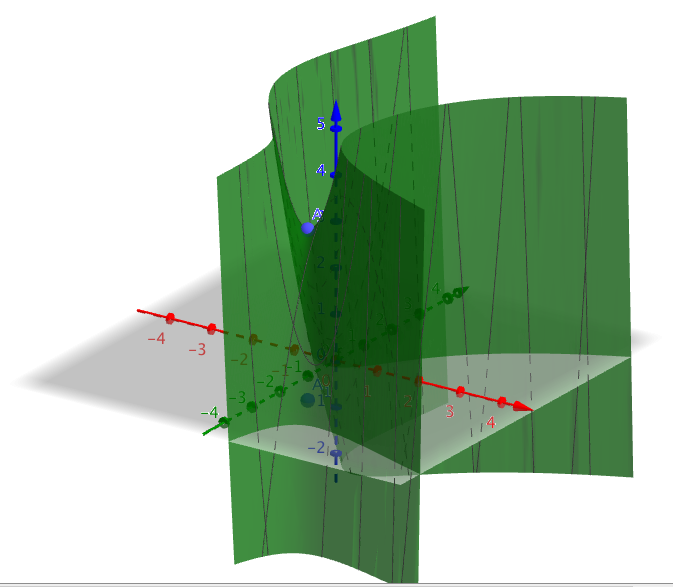
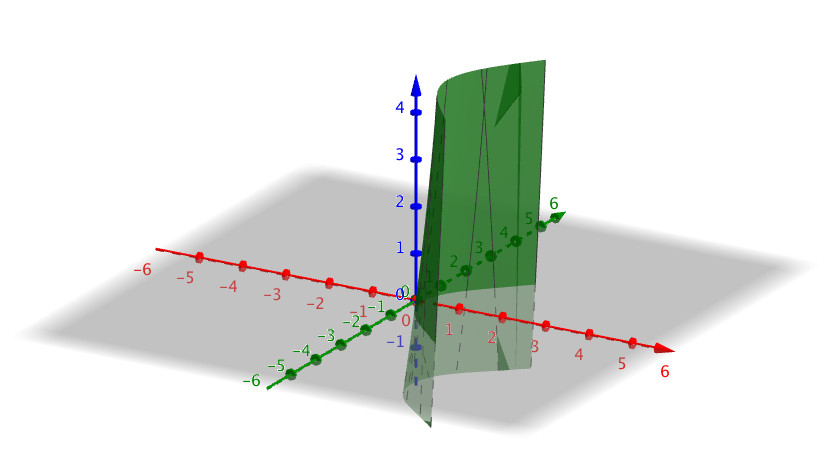
Jobb på MaA 10

diff --git a/MaA10_2021/10_partiell.html b/MaA10_2021/10_partiell.html
@@ -112,28 +112,27 @@
         <ol>
           <!--<li>Uppgift för Quizlet</li>-->
 
-          <li>Låt \( f(x,y) = 3x^3-xy^2-3y+7x-1 \).
+          <li>Låt \( f(x,y) = 2x^3-xy^2-3y^2+7x-1 \).
             <ol>
               <li>Bestäm de partiella derivatafunktionerna till funktionen. <p><button class="btn btn-success btn-sm" type="button" data-toggle="collapse" data-target="#1a" aria-expanded="false" aria-controls="collapseExample">Lösning</button></p>
               <div class="collapse" id="1a">
-              <div class="card card-body answer"><p>Vi får \( \dfrac{\partial f}{\partial x} = -y^2 +6x \) och \( \dfrac{\partial f}{\partial y} = -2xy -3 \).</p>
+              <div class="card card-body answer"><p>Vi får \( \dfrac{\partial f}{\partial x} = 6x^2-y^2+7 \) och \( \dfrac{\partial f}{\partial y} = -2xy -6y \).</p>
               </div></div> </li>
               <li>Bestäm de kritiska punkterna för funktionen. <p><button class="btn btn-success btn-sm" type="button" data-toggle="collapse" data-target="#1b" aria-expanded="false" aria-controls="collapseExample">Lösning</button></p>
               <div class="collapse" id="1b">
               <div class="card card-body answer"><p>Vi skall lösa ekvationssystemet</p>
                 <p> \(
                 \left\{ \begin{array}{l}
-                -y^2+6x = 0 \\
-                -2xy-3 = 0 \\
+                6x^2-y^2+7 = 0 \\
+                -2xy -6y = 0 \\
                 \end{array} \right. \) </p>
-                <p>Vi får lösningarna  \(  x = \dfrac{\sqrt[3]{9^2}}{6}, y = -\sqrt[3]{9} \) .</p>
+                <p>Vi får lösningarna  \(  x = -3, y = \sqrt{61} \) och \(  x = -3, y = -\sqrt{61} \) .</p>
               </div></div> </li>
               <li>Rita upp funktionen och avgör från grafen hur funktionen beter sig. <p><button class="btn btn-success btn-sm" type="button" data-toggle="collapse" data-target="#1c" aria-expanded="false" aria-controls="collapseExample">Lösning</button></p>
               <div class="collapse" id="1c">
               <div class="card card-body answer"><p>Grafen av funktionen är följande</p>
               <p><img src="pics/10-5.png" alt="" class="responsivepic600" /></p>
-              <p>Kritiska punkten är markerad med ett A.</p>
-              <p>Vi ser att vid A har vi ett lokalt extremvärde.</p>
+              <p>Den kritiska punkten är tyvärr någonstans som vi inte ser på GeoGebra.</p>
               </div></div> </li>
             </ol>
           </li>
